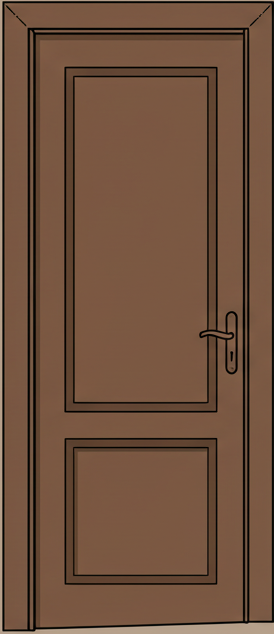
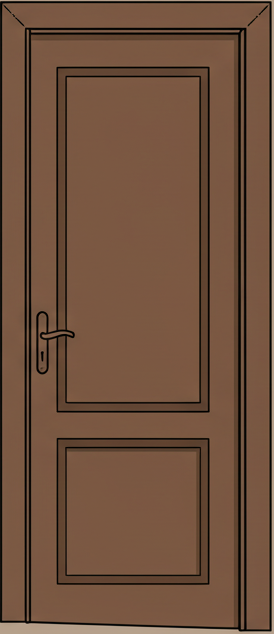
finished room 1

diff --git a/src/rooms/1/index.html b/src/rooms/1/index.html
@@ -30,6 +30,14 @@
         <p style="font-size: 0.6em;">Booting Quest shell...</p>
         <p>===</p>
 
+        <h2>Help</h2>
+        <p style="font-size: 0.7em;">Click items to pick them up.</p>
+        <p style="font-size: 0.7em;">Click anything to get more<br> information about it.</p>
+        <p style="font-size: 0.7em;">(This includes items in your<br> inventory).</p>
+        <br>
+        <p style="font-size: 0.7em;">Drag items in your hotbar<br> together to craft with them.</p>
+        <p style="font-size: 0.7em;">Drag items onto things in the<br> scene to use them.</p>
+
         <h2>Quests</h2>
 
           <!-- define the quests here -->
@@ -53,46 +61,63 @@
           </div>
 
           <!-- build the whole map here -->
-          <div class="crt-screen" id="map">
-            <img class="item switch" src="assets/switch.png" style="top: 280px; left: 500px;"
+          <div class="crt-screen" id="map" style="--map-width: 780px;">
+            <img class="item switch" src="assets/switch.png" style="z-index: 1;top: 105px; left: 150px;"
               data-game-item="switch"
               data-use="Room.useItem(this, withObject)">
 
-            <img class="item" src="assets/screwdriver.png" style="top: 280px; left: 410px;"
+            <img class="item" src="assets/screwdriver.png" style="transform:rotate(-45deg); top: 60px; left: 120px;"
               data-game-item="screwdriver"
               data-crafting-consumable="false"
               data-use="Room.useItem(this, withObject)">
 
-            <img class="item" src="assets/box.png" style="top: 330px; left: 410px;"
+            <img class="item" src="assets/box.png" style="top: 260px; left: 600px;"
               data-game-item="lockbox"
               data-use="Room.useItem(this, withObject)">
 
-            <img class="item switch" src="assets/switch.png" style="top: 260px; left: 695px;"
+            <img class="item switch" src="assets/switch.png" style="top: 180px; left: 305px;"
               data-game-item="switch"
               data-use="Room.useItem(this, withObject)">
 
-            <img class="item switch" src="assets/switch.png" style="top: 265px; left: 695px;"
+            <img class="item switch" src="assets/switch.png" style="top: 185px; left: 305px;"
               data-game-item="switch"
               data-use="Room.useItem(this, withObject)">
 
-            <img class="item switch" src="assets/switch.png" style="top: 260px; left: 690px;"
+            <img class="item switch" src="assets/switch.png" style="top: 180px; left: 300px;"
               data-game-item="switch"
               data-use="Room.useItem(this, withObject)">
+
+            <img height="80px" width="150px" src="assets/shelf.png" style="filter:saturate(1.4);position:absolute; top: 100px; left: 100px;">
+
+            <svg width="100%" height="100%" style="z-index:-1;position:absolute; top: 0px; left: 0px;">
+              <defs>
+                <pattern id="attachedImage" x="0" y="0"  width="200" height="200" patternUnits="userSpaceOnUse" >
+                   <image x="0" y="0" xlink:href="assets/bricks.jpg"/>
+                </pattern>
+              </defs>
+
+              <rect stroke="black" x="100" y="0" width="700" height="290" fill="url(#attachedImage)" />
+
+              <polygon points="0,0 0,380 100,290 100,0" style="fill:rgb(25, 27, 27)" />
+
+              <line x1="100" y1="10" x2="600" y2="10" stroke="lime" />
+              <line x1="100" y1="10" x2="20" y2="80" stroke="lime" />
+              <line x1="20" y1="80" x2="20" y2="150" stroke="lime" />
+            </svg>
 
             <div id="interactions">
-              <div class="door shut" id="lockedDoor" style="top: 250px; left: 700px;"
+              <div class="door shut" id="lockedDoor" style="top: 60px; left: 260px;"
                 data-door="key" data-eats-key="true"
-                data-on-click="window.actionLog.push('a locked wardrobe')"
+                data-on-click="window.actionLog.push('A locked wardrobe')"
                 data-on-open="Room.openRedDoor(this)">
-
-                <div class="doorHandle"></div>
               </div>
 
-              <div id="switchboard" style="top: 0px; left: 400px;">
-                <h2>Switchboard</h2>
+              <img src="assets/exit.png" id="exit" style="cursor:pointer;top: 60px; left: 10px;"
+                onclick="Room.escape()"/>
+
+              <div id="switchboard" style="top: 10px; left: 550px;">
+                <h2>Danger: Live</h2>
                 <div>
-                  <img src="assets/sb.png"
-                    style="width: 220px;position: relative;" />
                   <div class="slot switchboardSlot"
                     data-slot="switchboard"
                     data-callback="return Room.itemIsSwitch(this, withObject)"
@@ -120,7 +145,7 @@
   <!-- Generic reusable logic -->
 
   <!-- completely standalone and isolated -->
-  <script src="../../js/look.mjs"       async type="module"></script>
+  <script src="../../js/look.mjs"             type="module"></script>
   <!-- non-persistent -->
   <script src="../../js/point-and-click.mjs"  type="module"></script>
   <!-- persistent -->

diff --git a/src/rooms/1/room.css b/src/rooms/1/room.css
@@ -1,94 +1,96 @@
 @import url("../../css/game.css");
 
-.door {
-  position: absolute;
-}
-
-
 #lockedDoor {
-  height: 130px;
+  position: absolute;
+
+  height: 230px;
+  --s-w: 140px;
+  --o-w: calc(var(--s-w) * 2);
 
   border: 4px solid black;
 }
-
-
 .shut {
-  background-color: brown;
-  width: 80px;
+  background-image: url("assets/door1.png");
+  background-size: 100% 100%;
+  width: var(--s-w);
 }
-
-.shut .doorHandle {
-  position: absolute;
-  background-color: yellow;
-  width: 10px;
-  height: 5px;
-
-  top: 50%;
-  left: calc(100% - 10px);
-}
-
-
 .open {
-  background-color: rgb(65, 24, 24);
-  width: 160px;
+  --right: rgb(61, 34, 33);
+  --left: rgb(26, 10, 19);
+  background: linear-gradient(90deg, var(--left) 0%, var(--left) 50%, var(--right) 51%, var(--right) 100%);
+  width: var(--o-w);
 }
-
 .open::after {
   content: "DUDD";
   color: white;
   position: absolute;
   top: 5px;
   left: 5px;
+  z-index: 10;
 }
 
-.open .doorHandle {
+#exit {
+  width: 80px;
   position: absolute;
-  background-color: black;
-  width: 5px;
-  height: 100%;
-  left: 50%;
-  top: 0%;
 }
-
 
 #switchboard {
-  background-color: blue;
-  width: 400px;
+  background-color: rgb(14, 14, 15);
+  width: 220px;
+  height: 100px;
   position: absolute;
+  border-radius: 10px;
 }
+#switchboard::after {
+  --height: 10%;
 
+  content: '';
+  background-color: rgb(44, 44, 44);
+  width: 40%;
+  height: var(--height);
+  position: absolute;
+  top: calc(-1 * var(--height));
+  left: 10%;
+}
+#switchboard > h2 {
+  color: red;
+  user-select: none;
+  text-align: center;
+}
 #switchboard > div {
   display: flex;
   gap: 10px;
   padding: 10px;
+  width: 100%;
+  height: 100%;
 
-  position: relative;
+  background-image: url("assets/sb.png");
+  background-size: contain;
 }
 
-#switchboard > h2 {
-  color: aliceblue;
-  user-select: none;
+#map {
+  background-color: rgb(64, 66, 68);
 }
 
 .switchboardSlot {
-  background-color: aquamarine;
+  /* background-color: aquamarine; */
 
   box-sizing:border-box;
-  width: 80px;
-  height: 80px;
+  width: 37px;
+  height: 40px;
   position: unset;
 
   display: flex;
   align-items: center;
   justify-content: center;
 
-  top: 0px;
-  left: -100px;
+  top: 19px;
+  left: 11px;
 }
 
 .switchboardSlot > .item {
   cursor: pointer;
-  width: 80px;
+  width: 55px;
 }
 
 .item {

diff --git a/src/rooms/1/room.js b/src/rooms/1/room.js
@@ -12,9 +12,9 @@ class Room {
 
     element.classList.remove("shut")
     element.classList.add("open")
-    element.style.left = `${700 - 80}px`
+    // element.style.left = `${700 - 80}px`
 
-    document.querySelectorAll("[data-game-item='switch']").forEach(e => e.style.zIndex = 10)
+    document.querySelectorAll("[data-game-item='switch']").forEach(e => e.style.zIndex = 1)
   }
 
   static itemIsSwitch(slot, item) {
@@ -27,25 +27,38 @@ class Room {
     return true
   }
 
+  static escape() {
+    if (this.#checkCombination()) {
+      alert("You escaped!")
+      window.location.replace("/")
+    } else {
+      window.actionLog.push('Wont budge')
+    }
+  }
+
   static switchConnected(slot, item) {
     // prevent user from removing / swapping items on this slot now
     window.inventory.disableItem(item)
 
-    const ON = e => e.src.includes("assets/switch-on.png")
-
     item.addEventListener("click", (e) => {
-      if (ON(item)) {
+      if (this.#switchOn(item)) {
         item.src = "assets/switch.png"
       } else {
         item.src = "assets/switch-on.png"
       }
-
-      const code = [...document.querySelectorAll(".switch")]
-
-      if (ON(code[0]) && !ON(code[1]) && ON(code[2]) && ON(code[3])) {
-        alert("You're Winner!")
-      }
     });
+  }
+
+  static #switchOn(e) {
+    return e.src.includes("assets/switch-on.png");
+  }
+
+  static #checkCombination() {
+    const code = [...document.querySelectorAll(".switch")]
+
+    const ON = e => this.#switchOn(e)
+
+    return ON(code[0]) && !ON(code[1]) && ON(code[2]) && ON(code[3])
   }
 
   // Generics
@@ -91,10 +104,12 @@ class Room {
     // and then one from callbacks.
 
     // setting the horizontal scroll position on page load (game camera view)
-    document.addEventListener('DOMContentLoaded', function() {
-      const element = document.getElementById("scene-viewport");
-      element.scrollLeft = 350;
-    });
+    // document.addEventListener('DOMContentLoaded', function() {
+    //   const element = document.getElementById("scene-viewport");
+    //   element.scrollLeft = 350;
+    // });
+
+    window.scrollLook.settings.lockVertical = true;
 
     // window.onload = function() { // it's either this or defer-ing this script
     // and any script that uses the global objects

diff --git a/src/index.html b/src/index.html
@@ -13,7 +13,7 @@
 <body>
   <h1>Adventure Rooms</h1>
   <nav>
-    <div class="nav-tile">
+    <div class="nav-tile" style="background-size: cover; background-image: url(assets/room-1-preview.png)">
       <a href="rooms/1/">Den of a Collector</a>
     </div>
     <div class="nav-tile">

diff --git a/src/css/global.css b/src/css/global.css
@@ -6,10 +6,15 @@
 @import url("global/links.css");
 @import url("global/view-transition.css");
 
+html {
+
+  height: 100%;
+}
+
 html,
 body {
   /* width: 100%; */
-  height: 100%;
+  min-height: 100%;
   margin: 0;
   padding: 0;
   box-sizing: border-box;

diff --git a/src/css/game/scene.css b/src/css/game/scene.css
@@ -43,5 +43,5 @@
 }
 
 img {
-  filter: saturate(10);
+  /* filter: saturate(10); */
 }
